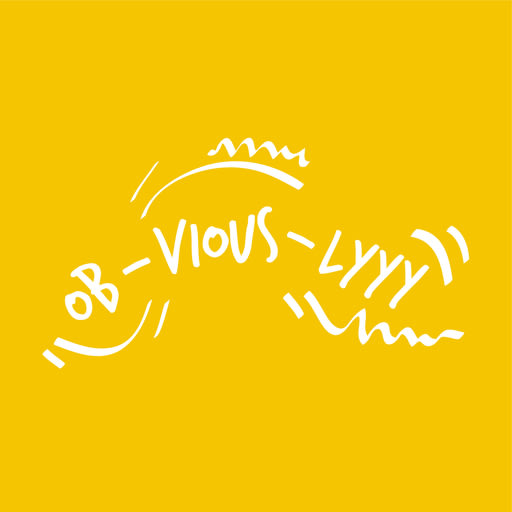
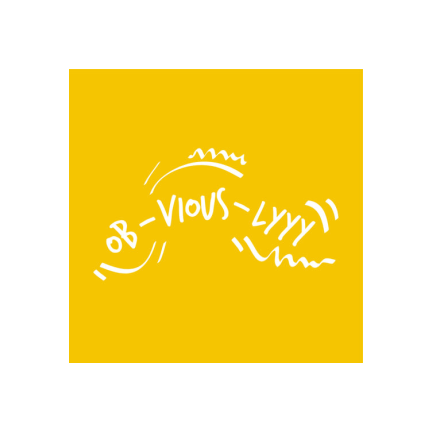
fix splash

diff --git a/components/SplashScreen/SplashScreen.tsx b/components/SplashScreen/SplashScreen.tsx
@@ -5,16 +5,27 @@ import AppLoading from 'expo-app-loading';
 import Constants from 'expo-constants';
 import * as SplashScreen from 'expo-splash-screen';
 import React from 'react';
-import { Animated, StyleSheet, View } from 'react-native';
+import { Animated, Image, StyleSheet, View } from 'react-native';
 
 export default function AnimatedAppLoader({ children, image, secondImage }) {
   const [isSplashReady, setSplashReady] = React.useState(false);
 
   const startAsync = React.useMemo(
     // If you use a local image with require(...), use `Asset.fromModule`
-    () => () => Asset.fromURI(image).downloadAsync(),
+    () => () => Asset.fromModule(image).downloadAsync(),
     [image],
   );
+
+  const cacheResourcesAsync = async () => {
+    console.log(`started`);
+    const images = [image, secondImage];
+
+    const cacheImages = images.map((img) =>
+      Asset.fromModule(img).downloadAsync(),
+    );
+    await Promise.all(cacheImages);
+    console.log(`ended`);
+  };
 
   const onFinish = React.useMemo(() => setSplashReady(true), []);
 
@@ -23,8 +34,8 @@ export default function AnimatedAppLoader({ children, image, secondImage }) {
       <AppLoading
         autoHideSplash={false}
         startAsync={startAsync}
-        onError={console.error}
         onFinish={onFinish}
+        onError={(e) => console.log(e)}
       />
     );
   }
@@ -38,20 +49,60 @@ export default function AnimatedAppLoader({ children, image, secondImage }) {
 
 function AnimatedSplashScreen({ children, image, secondImage }) {
   const animation = React.useMemo(() => new Animated.Value(1), []);
-  // const animation2 = React.useMemo(() => new Animated.Value(1), []);
+  const animation2 = React.useMemo(() => new Animated.Value(0), []);
+  const [isAnimReady, setAnimReady] = React.useState(false);
   const [isAppReady, setAppReady] = React.useState(false);
   const [isSplashAnimationComplete, setAnimationComplete] =
     React.useState(false);
+  const [isBetweenAnimReady, setIsBetweenAnimReady] = React.useState(false);
+  const [isSplashAnimation2Complete, setAnimation2Complete] =
+    React.useState(false);
+  const [backgroundColor, setBackgroundColor] = React.useState(`#f5c500`);
 
   React.useEffect(() => {
-    if (isAppReady) {
+    if (isAnimReady) {
       Animated.timing(animation, {
         toValue: 0,
         duration: 1000,
         useNativeDriver: true,
       }).start(() => setAnimationComplete(true));
     }
-  }, [isAppReady]);
+  }, [isAnimReady]);
+
+  React.useEffect(() => {
+    if (isSplashAnimationComplete) {
+      Animated.timing(animation2, {
+        toValue: 1,
+        duration: 1000,
+        useNativeDriver: true,
+      }).start(() => {
+        setIsBetweenAnimReady(true);
+        setBackgroundColor(`transparent`);
+        setTimeout(() => {
+          Animated.timing(animation2, {
+            toValue: 0,
+            duration: 1000,
+            useNativeDriver: true,
+          }).start(() => setAnimation2Complete(true));
+        }, 1000);
+      });
+    }
+  }, [isSplashAnimationComplete]);
+
+  const onImage2Loaded = React.useMemo(
+    () => async () => {
+      try {
+        // await SplashScreen.hideAsync();
+        // Load stuff
+        // await Promise.all([]);
+      } catch (e) {
+        // handle errors
+      } finally {
+        setAppReady(true);
+      }
+    },
+    [],
+  );
 
   const onImageLoaded = React.useMemo(
     () => async () => {
@@ -62,15 +113,15 @@ function AnimatedSplashScreen({ children, image, secondImage }) {
       } catch (e) {
         // handle errors
       } finally {
-        setAppReady(true);
+        setAnimReady(true);
       }
     },
     [],
   );
 
   return (
-    <View style={{ flex: 1 }}>
-      {isAppReady && children}
+    <View style={{ flex: 1, backgroundColor }}>
+      {isAppReady && isBetweenAnimReady && children}
       {!isSplashAnimationComplete && (
         <Animated.View
           pointerEvents="none"
@@ -82,12 +133,11 @@ function AnimatedSplashScreen({ children, image, secondImage }) {
             },
           ]}
         >
-          <Animated.Image
+          <Image
             style={{
               width: `100%`,
               height: `100%`,
               resizeMode: Constants.manifest!.splash!.resizeMode || `contain`,
-              opacity: animation,
               // transform: [
               //   {
               //     scale: animation,
@@ -98,19 +148,28 @@ function AnimatedSplashScreen({ children, image, secondImage }) {
             onLoadEnd={onImageLoaded}
             fadeDuration={0}
           />
+        </Animated.View>
+      )}
+      {!isSplashAnimation2Complete && isSplashAnimationComplete && (
+        <Animated.View
+          pointerEvents="none"
+          style={[
+            StyleSheet.absoluteFill,
+            {
+              backgroundColor: Constants.manifest!.splash!.backgroundColor,
+              opacity: animation2,
+            },
+          ]}
+        >
           <Animated.Image
             style={{
               width: `100%`,
               height: `100%`,
               resizeMode: Constants.manifest!.splash!.resizeMode || `contain`,
-              transform: [
-                {
-                  scale: animation,
-                },
-              ],
+              opacity: animation2,
             }}
             source={secondImage}
-            onLoadEnd={onImageLoaded}
+            onLoadEnd={onImage2Loaded}
             fadeDuration={0}
           />
         </Animated.View>

diff --git a/App.tsx b/App.tsx
@@ -5,13 +5,17 @@ import { SafeAreaProvider } from 'react-native-safe-area-context';
 import firebase from 'firebase/app';
 import * as GoogleSignIn from 'expo-google-sign-in';
 
-import useCachedResources from './hooks/useCachedResources';
+import * as SplashScreen from 'expo-splash-screen';
+import Constants from 'expo-constants';
 import useColorScheme from './hooks/useColorScheme';
 import Navigation from './navigation';
-import SplashScreen from './components/SplashScreen';
+import SplashScreenComponent from './components/SplashScreen';
+
+SplashScreen.preventAutoHideAsync().catch(() => {
+  /* reloading the app might trigger some race conditions, ignore them */
+});
 
 export default function App() {
-  const isLoadingComplete = useCachedResources();
   const colorScheme = useColorScheme();
 
   GoogleSignIn.initAsync({
@@ -36,21 +40,17 @@ export default function App() {
     firebase.app();
   }
 
-  if (!isLoadingComplete) {
-    return null;
-  }
-
   return (
-    <SplashScreen
+    <SplashScreenComponent
       // eslint-disable-next-line global-require
-      image={require(`./assets/images/splash2.png`)}
+      image={{ uri: Constants.manifest.splash.image }}
       // eslint-disable-next-line global-require
       secondImage={require(`./assets/images/splash2.png`)}
     >
-      <SafeAreaProvider>
+      <SafeAreaProvider style={{ backgroundColor: `#fff` }}>
         <Navigation colorScheme={colorScheme} />
         <StatusBar />
       </SafeAreaProvider>
-    </SplashScreen>
+    </SplashScreenComponent>
   );
 }

diff --git a/screens/SignInScreen.tsx b/screens/SignInScreen.tsx
@@ -32,7 +32,7 @@ export default function SignInScreen({
 }: StackScreenProps<RootStackParamList, 'SignUp'>) {
   const [isLoading, setIsLoading] = React.useState(false);
   const provider = new firebase.auth.GoogleAuthProvider();
-  firebase.auth().languageCode = `it`;
+  firebase.auth().languageCode = `en`;
 
   const onSubmit = ({ email, password }: any) => {
     setIsLoading(true);
